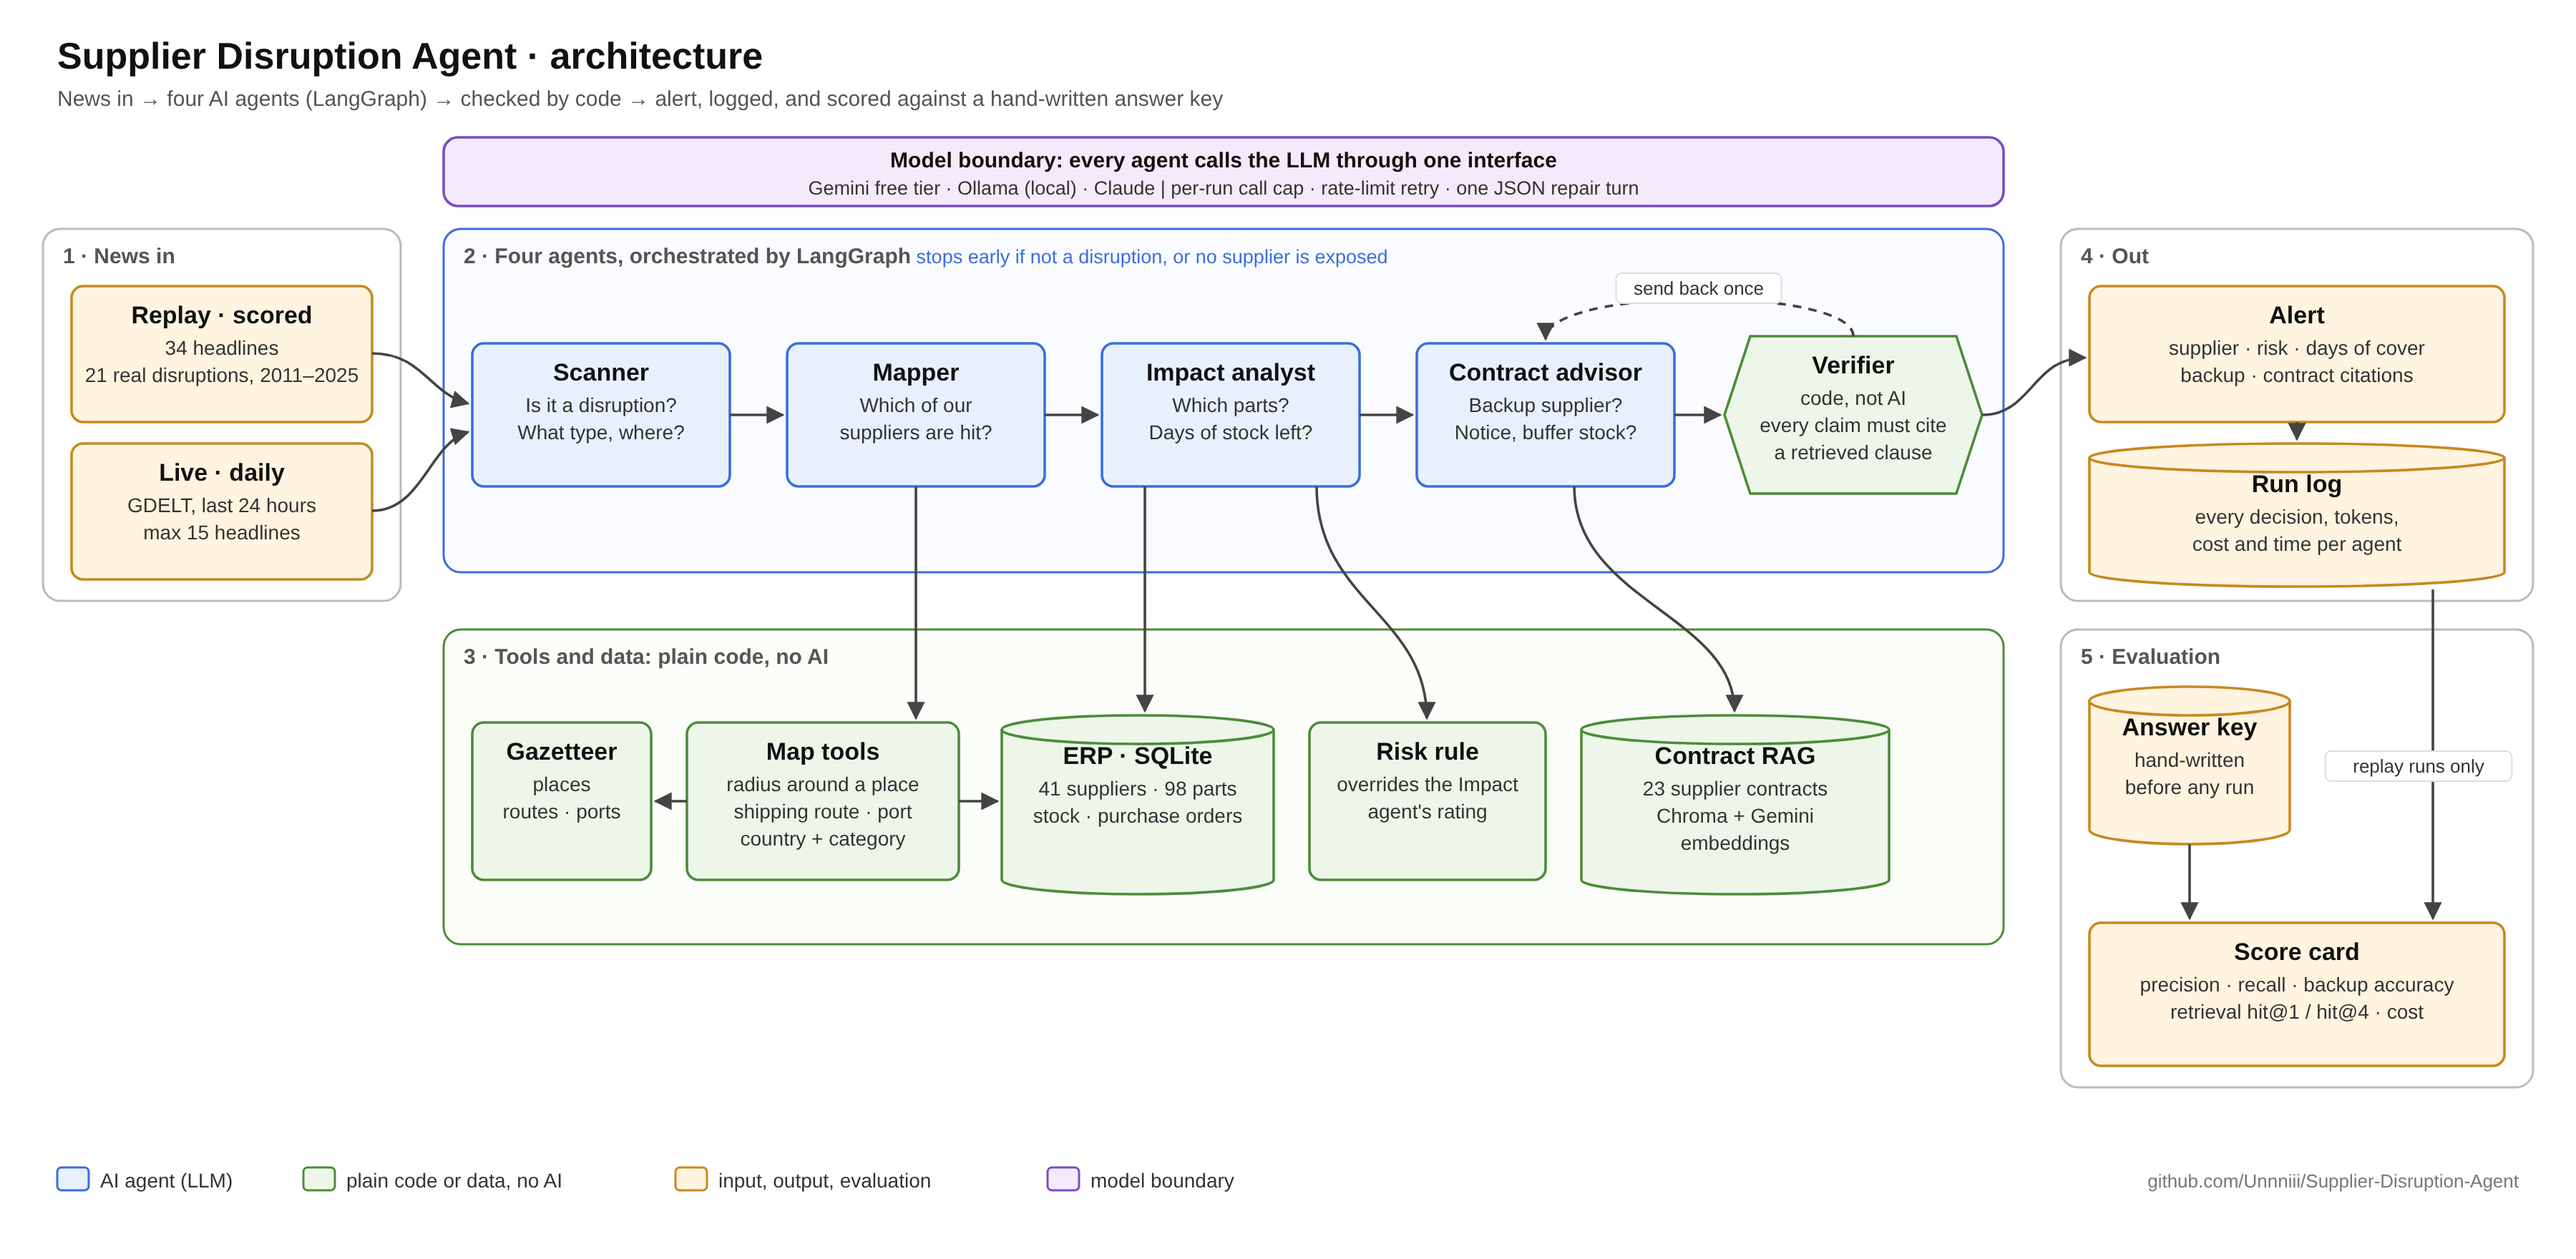
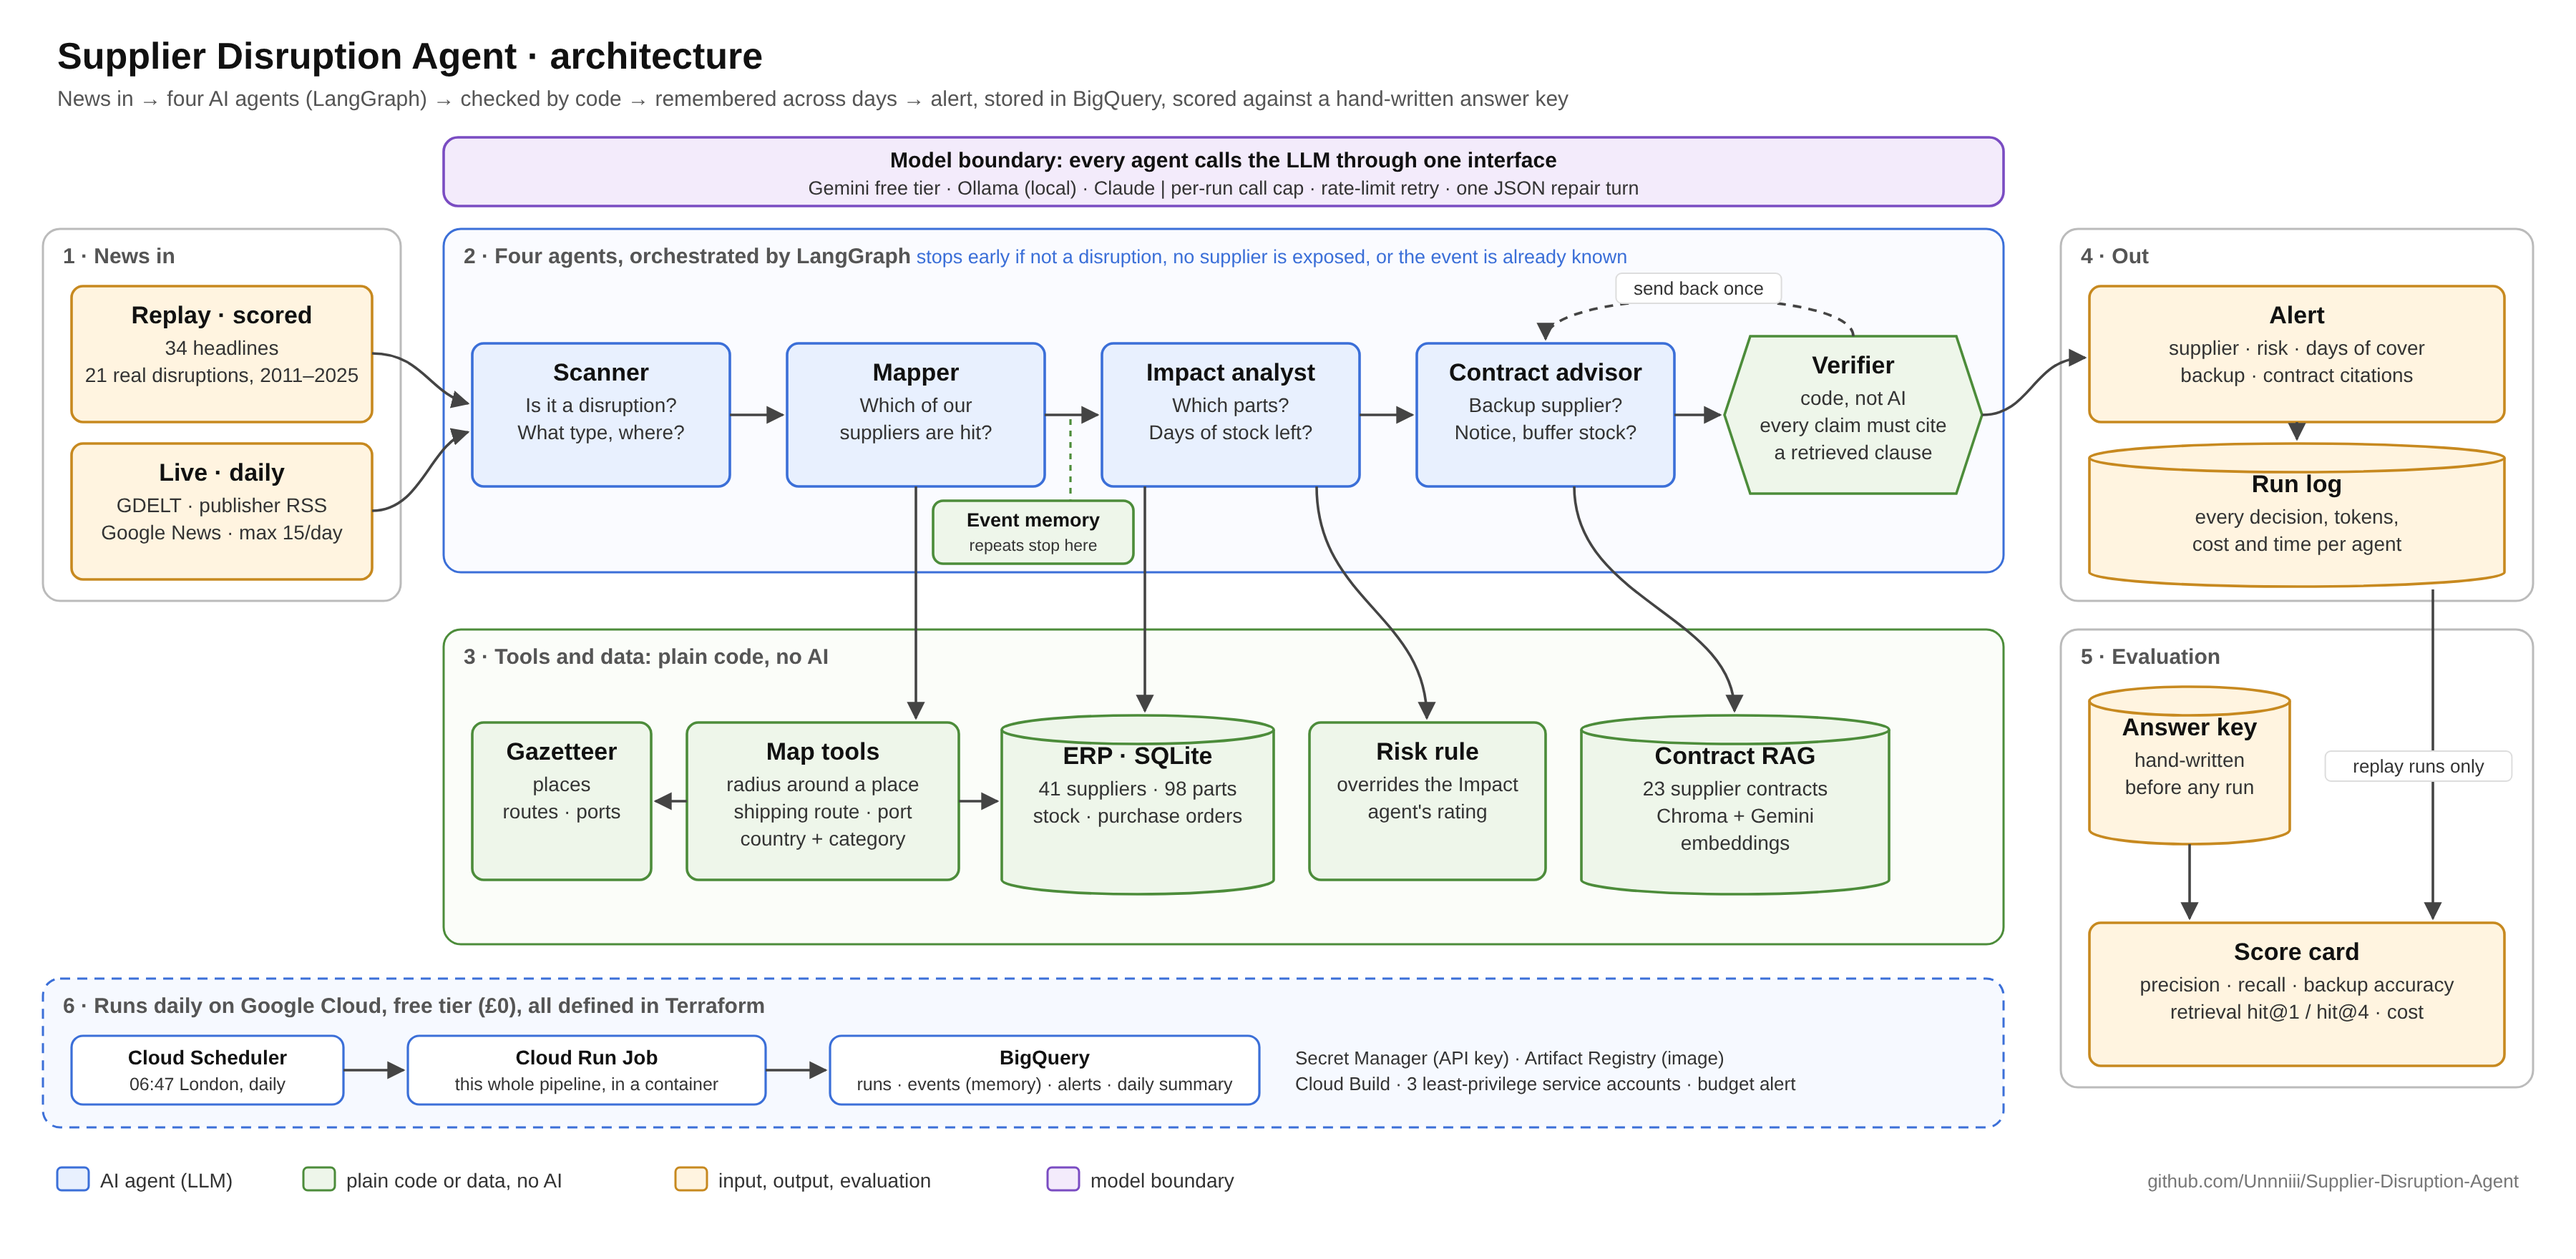
README and diagram brought up to date: news fallbacks, event memory, GCP strip, commands, test count
Claude-Session: https://claude.ai/code/session_01REQjJoGsWWnQ5Fa8Ubuw1d

diff --git a/README.md b/README.md
@@ -193,7 +193,17 @@ uv run python -m agent.run --live                 # last 24 hours, up to 15 head
 uv run python -m agent.run --live --max-live 30
 ```
 
-One request to GDELT per run; headlines are de-duplicated, capped and saved to `data/live/` so every alert can be traced to what was read. GDELT returns titles, not article text, so the Scanner judges from the headline. Most days nothing touches 41 fictional suppliers, so "no exposure" is the normal answer.
+Three free sources, tried in order:
+1. GDELT, a global news index searched with disruption keywords.
+2. Publisher RSS feeds (BBC World and Business, Supply Chain Dive, FreightWaves, The Loadstar, gCaptain), filtered to recent, disruption-sounding headlines.
+3. Google News RSS.
+
+A source that refuses, or answers with nothing, hands over to the next. From Cloud Run, GDELT (429) and Google News (503) both turn away data-centre traffic, so the cloud scan normally runs on the publisher feeds. Each headline records which source it came from. Headlines are de-duplicated, capped and saved to `data/live/`, so every alert can be traced back to what was read. All three give titles, not article text, so the Scanner judges from the headline. Most days nothing touches 41 fictional suppliers, so "no exposure" is the normal answer.
+
+```bash
+uv run python -m agent.live                                      # just fetch and print, no model calls
+$env:SDA_LIVE_SOURCE="feeds"; uv run python -m agent.live        # force one source (PowerShell)
+```
 
 **Daily on Windows:** `scripts/run_daily.ps1` runs the live scan and appends to `logs/daily.log`. Register it with Task Scheduler using the command at the top of that file.
 
@@ -204,7 +214,7 @@ Cloud Scheduler (06:47 London, daily)
         |  POST .../jobs/sda-daily-scan:run   (as sda-scheduler, run.invoker only)
         v
 Cloud Run Job  sda-daily-scan   (container from Artifact Registry, runs as sda-job)
-        |  GDELT -> Scanner -> Mapper -> Impact -> Advisor -> Verifier
+        |  news (GDELT -> publisher RSS -> Google News) -> Scanner -> Mapper -> Event memory -> Impact -> Advisor -> Verifier
         |  Gemini key from Secret Manager
         v
 BigQuery  supplier_disruption.runs   one row per headline, partitioned by day
@@ -267,17 +277,21 @@ bq query --use_legacy_sql=false "SELECT * FROM supplier_disruption.alerts LIMIT 
 ```bash
 uv sync
 uv run python scripts/seed_erp.py
-uv run pytest                                   # 61 tests, offline, free
+uv run pytest                                   # 103 tests, offline, free
 uv run python -m agent.run --fake               # whole pipeline with a rule-based stand-in model
 cp .env.example .env                            # add GEMINI_API_KEY (free, aistudio.google.com/apikey)
 uv run python -m agent.run --news N01 N07       # try two headlines first
 uv run python -m agent.run                      # full scan, Gemini free tier
 SDA_PROVIDER=ollama uv run python -m agent.run  # local model instead (install Ollama, `ollama pull qwen3:8b`)
+uv run python -m agent.evaluate                 # score the latest run
+uv run python -m agent.run --sequence           # event-memory test (10 ordered headlines), then evaluate again
+uv run python -m agent.run --live               # today's real headlines, with event memory
+uv run python -m agent.run --resume             # finish a run the daily quota cut short
 ```
 
 Contract search uses Gemini embeddings when `GEMINI_API_KEY` is set, otherwise Chroma's local embedding model, otherwise keyword (BM25) search, and prints which one it fell back to.
 
-**What the tests cover:** the evaluation maths, live news parsing and fallback, the new country and route-alias tools, that adding suppliers left old data unchanged, the cap, the Gemini and Ollama adapters (with stand-in clients, no network), data integrity, the Map step reaching the answer key, routing and early exits, the tool loop's turn limit and unknown-tool handling, the verifier's checks, the advisor revise loop, and failure isolation.
+**What the tests cover:** the evaluation maths, live news parsing and fallback, the new country and route-alias tools, that adding suppliers left old data unchanged, the cap, the Gemini and Ollama adapters (with stand-in clients, no network), data integrity, the Map step reaching the answer key, routing and early exits, the tool loop's turn limit and unknown-tool handling, the verifier's checks, the advisor revise loop, failure isolation, event memory (matching rules, label noise, save order, BigQuery store), the BigQuery writer and schemas, and UTF-8 file handling for Windows.
 
 **`--fake` mode is a floor, not a result.** It is keyword matching that never reads the answer key. It exists so the pipeline can be tested without cost. Real accuracy numbers come from the evaluation on Gemini.
 
@@ -289,7 +303,7 @@ Contract search uses Gemini embeddings when `GEMINI_API_KEY` is set, otherwise C
 - Event matching uses fixed thresholds (14 days, 60% overlap) chosen by hand, not tuned on data.
 - Coverage (full / partial / none) is judged by the model on every headline, so the same contract can get different answers on different days (S002 and S027 in the results above).
 - The Ollama path is tested with stand-ins only. The Gemini path has two full scored runs.
-- Live mode is tested against recorded GDELT replies, not the live service (the build sandbox cannot reach it). GDELT's language filter syntax is not confirmed in its public docs, so live mode retries without it if the first query is rejected.
+- Live sources are unit-tested against recorded replies; the real feeds are only exercised by the daily cloud run and manual laptop runs. If a publisher changes its RSS address, that source fails quietly and the next one is used. The logs show it, but nothing alerts on it.
 - The answer key was written by the same person who built the system. An independent second annotator would make the scores more trustworthy.
 - Gemini model names change; if `gemini-3.1-flash-lite` returns 404, set `SDA_MODEL` to the current Flash-Lite name shown in AI Studio.
 
@@ -300,7 +314,7 @@ Contract search uses Gemini embeddings when `GEMINI_API_KEY` is set, otherwise C
 - [x] Free model backends (Gemini free tier, Ollama) and a per-run call cap
 - [x] Evaluation script: precision, recall, backup accuracy, retrieval hit rate, cost
 - [x] 11 more suppliers and 14 more headlines from real 2023 to 2025 disruptions
-- [x] Live mode (GDELT) and a daily Windows schedule
+- [x] Live mode (GDELT, publisher RSS, Google News, with fallback) and a daily Windows schedule
 - [x] Full scored run on Gemini; results in this README
 - [x] Fix the worst miss and re-run (before/after numbers): unsafe backups warned 0 of 13 → 13 of 13
 - [x] Event memory: new / escalated / ongoing / resolved, stored in BigQuery, 10/10 on Gemini on a scored sequence
